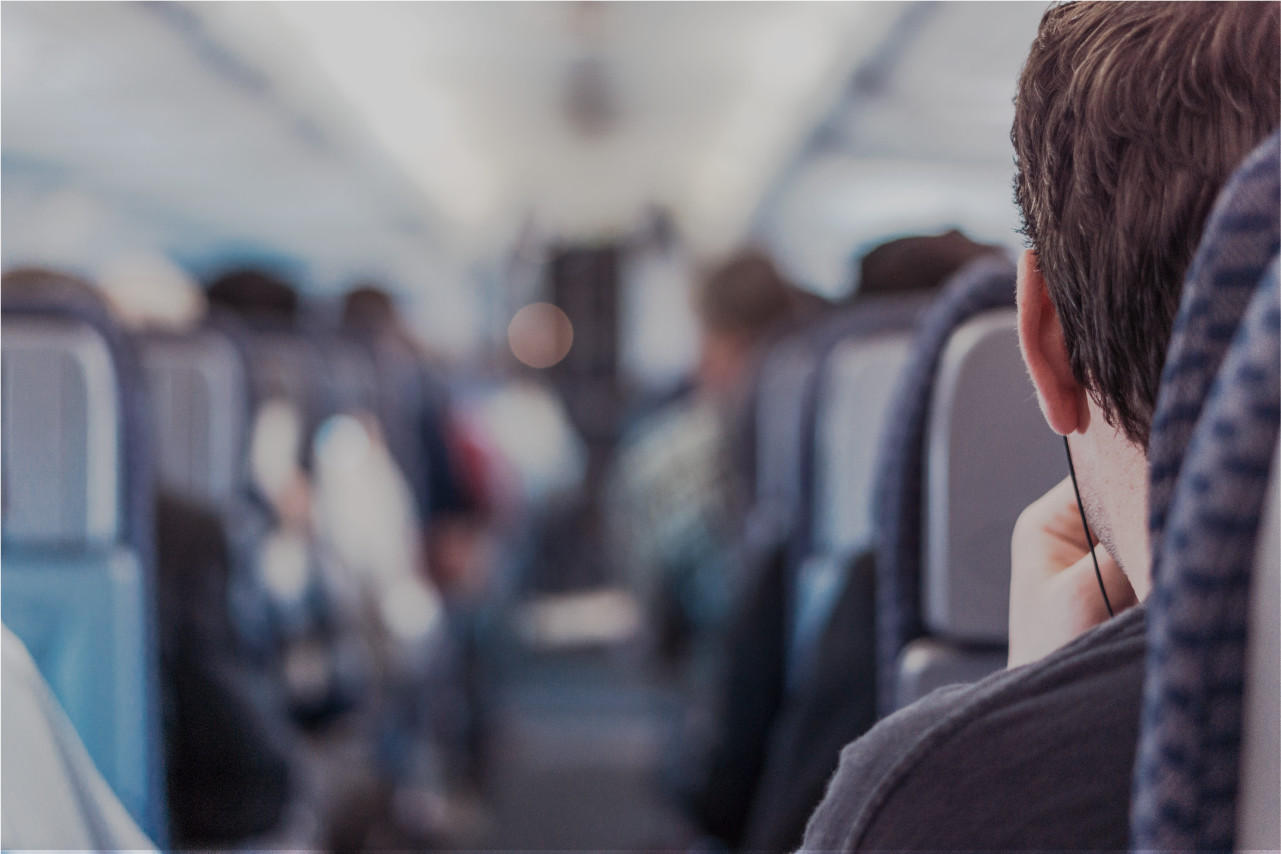
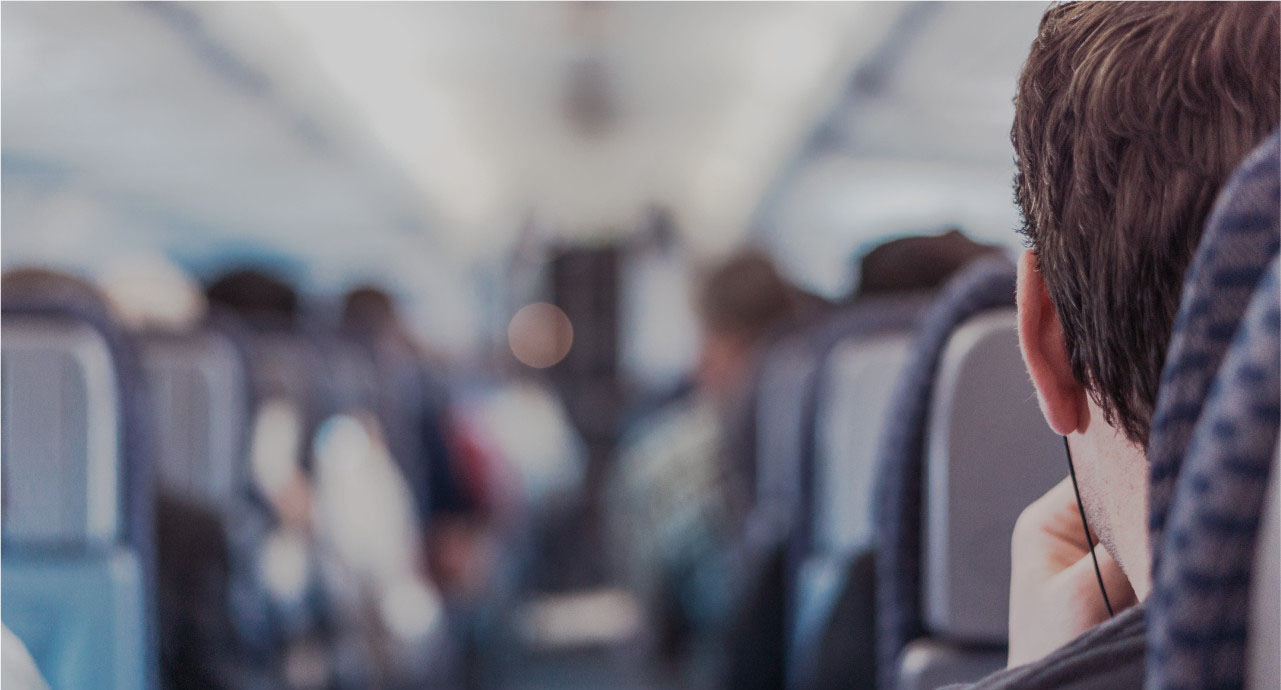
完成intro样式，修改banner为border-box

diff --git a/xiaowei/task07/07.css b/xiaowei/task07/07.css
@@ -1,5 +1,5 @@
 /* 初始化边距 */
-ul,h1,p{
+ul,h1,h2,h3,p,img,div{
 	margin: 0;
 	padding: 0;
 }
@@ -62,12 +62,12 @@ li.login{
 }
 
 /* banner的样式 */
-.banner{
-	width: 1280px;
-	height: 851px;
+div.banner{
+	/* width: 1280px; */
+	height: 690px;
 	background: url(banner.jpg) no-repeat;
-	padding-top: 184px;
-	padding-left: 124px;
+	padding: 184px 0 0 124px;
+	box-sizing: border-box;
 }
 .banner h1{
 	font: 60px "Yahei";
@@ -91,4 +91,28 @@ li.login{
 	letter-spacing: 0.1em;
 }
 
-
+/* intro的样式 */
+.intro{
+	height: 250px;
+}
+.intro div{
+	display: inline-block;
+	width: 300px;
+	text-align: center;
+}
+.intro img{
+	width: 40px;
+	height: 40px;
+	padding-top: 45px;
+	padding-bottom: 48px;
+}
+.intro p{
+	height: 53px;
+	margin-bottom: 64px;
+	font: 14px "Simhei";
+	color: #767777;
+	border-right: 1px solid #767777;
+}
+.intro div:nth-child(4) p:nth-child(2){
+	border: none;
+}

diff --git a/xiaowei/task07/07.html b/xiaowei/task07/07.html
@@ -26,10 +26,10 @@
 			<button>开始体验</button>
 		</div>
 		<div class="intro">
-			<p>打造全新世界观，让你更爱你的生活</p>
-			<p>丰富多彩的公益活动，发挥新世界的主人翁精神</p>
-			<p>时尚的新理念，超前体验未知的生活</p>
-			<p>完善的培养机制，培养你全新的世界观</p>
+			<div><img src="i1.gif" alt=""><p>打造全新世界观，让你更<br>爱你的生活</p></div>
+			<div><img src="i2.gif" alt=""><p>丰富多彩的公益活动，发<br>挥新世界的主人翁精神</p></div>
+			<div><img src="i3.gif" alt=""><p>时尚的新理念，超前体验<br>未知的生活</p></div>
+			<div><img src="i4.gif" alt=""><p>完善的培养机制，培养你<br>全新的世界观</p></div>
 		</div>
 		<div class="box">
 			<p>关于新世界，你不知道的还有什么？</p>
